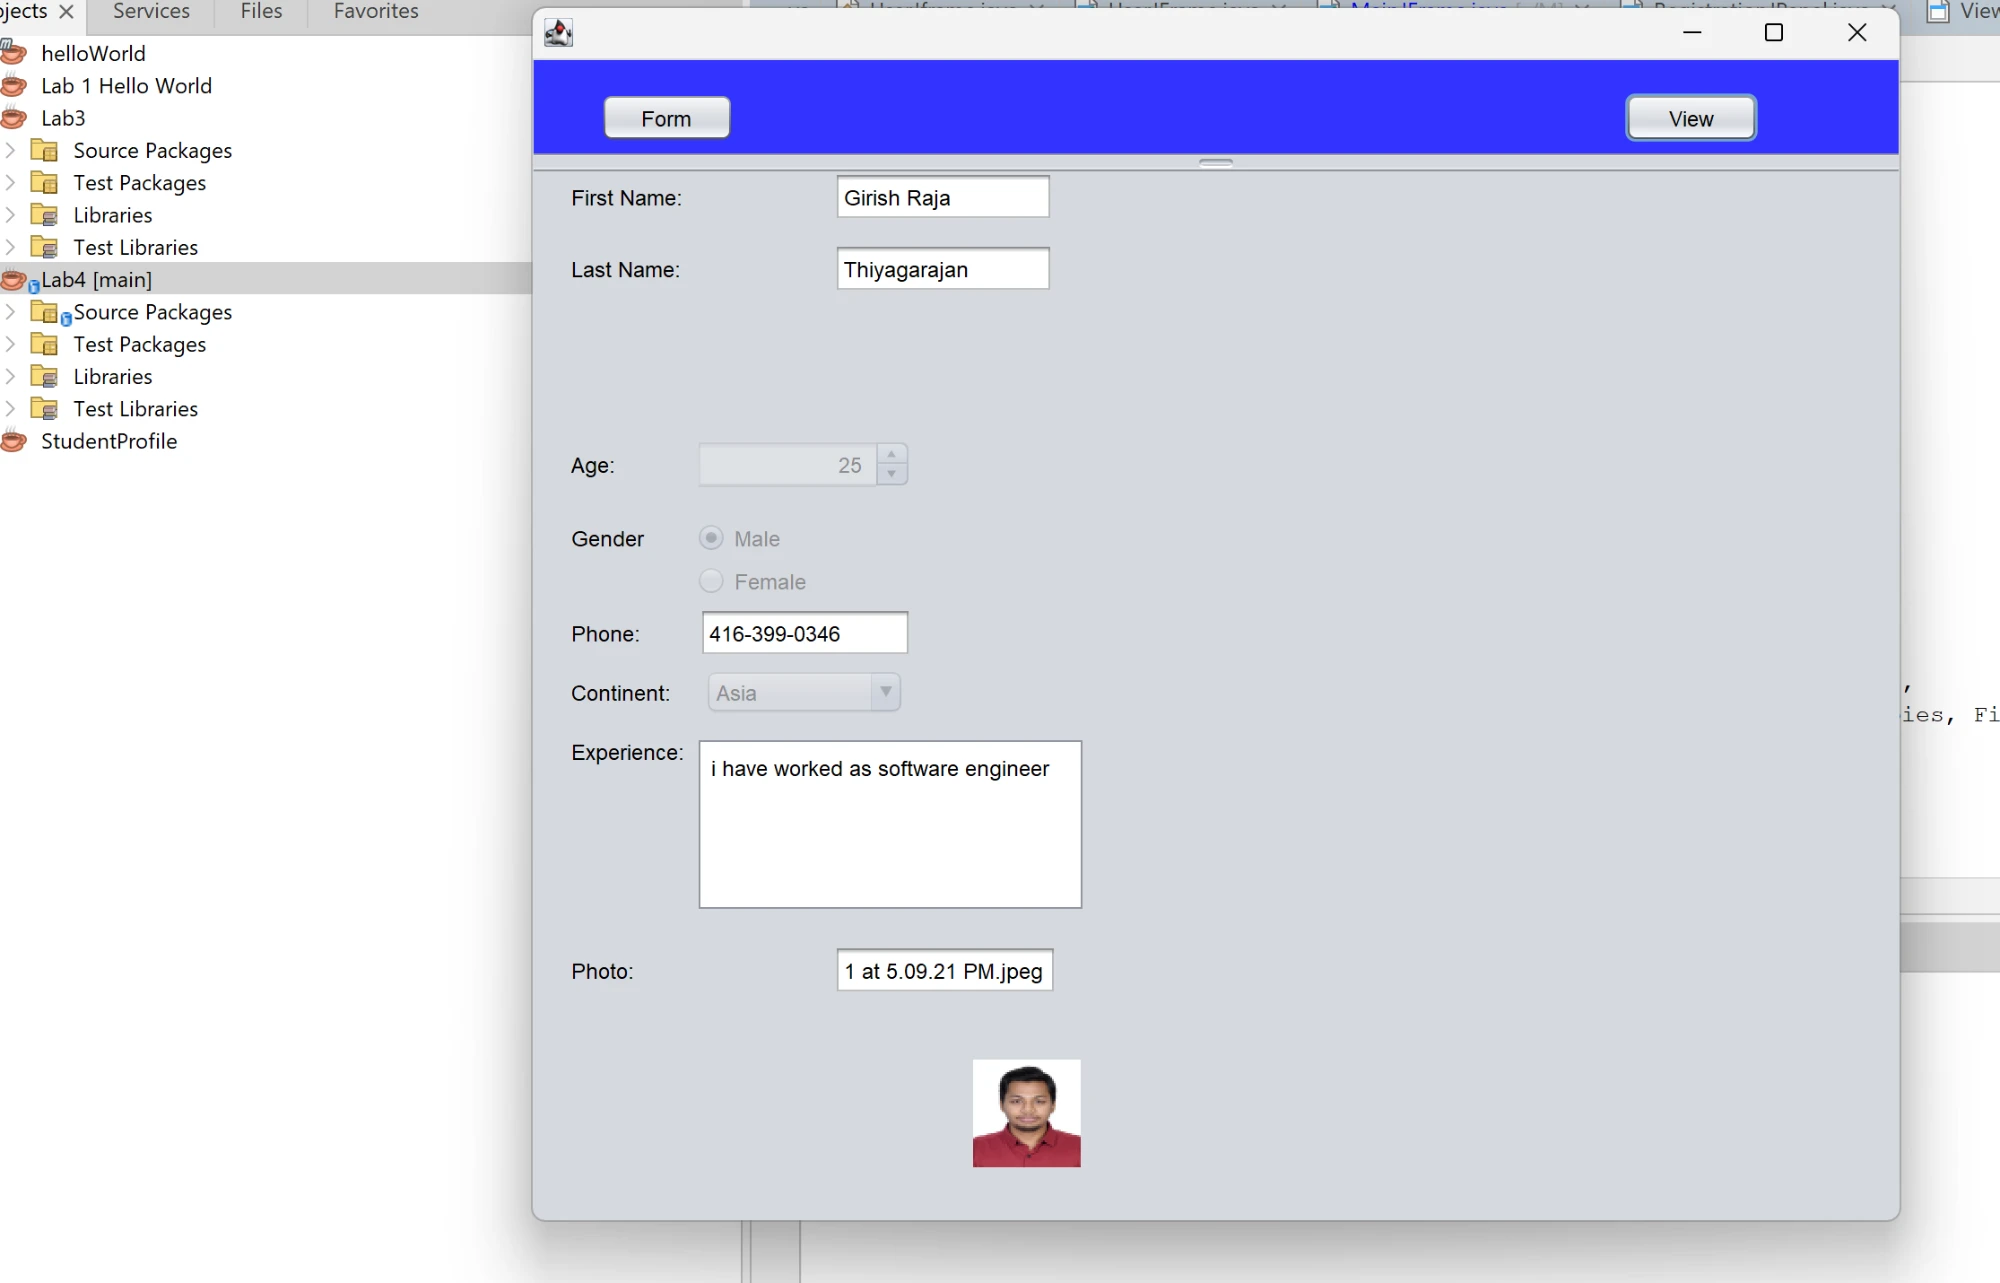
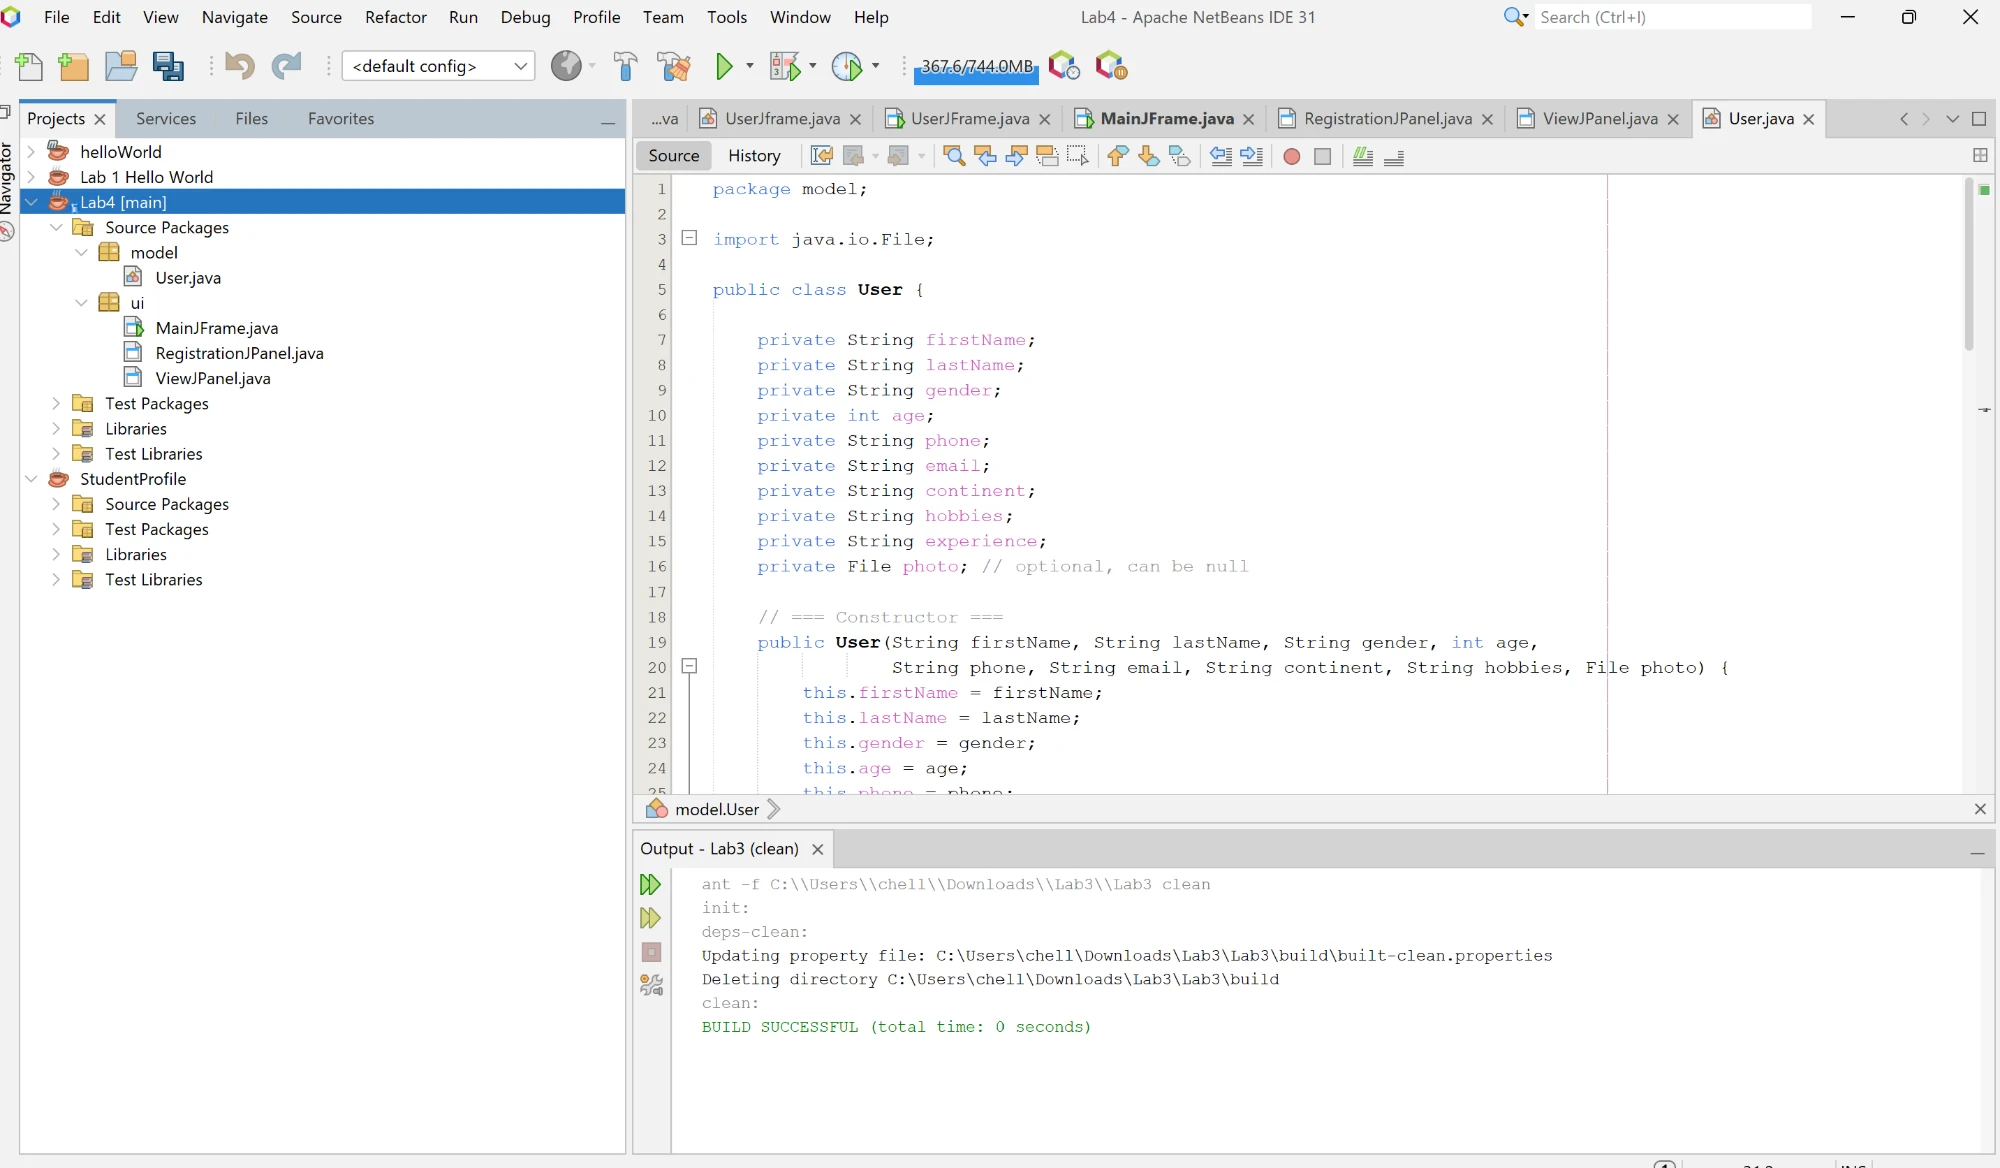
Reorder Lab 4 screenshots in README

diff --git a/README.md b/README.md
@@ -74,7 +74,7 @@ Each failed check shows an error message describing the problem, and the form st
 
 ### Screenshots
 
-**Step 1. Project structure.** The `model` package holds `User.java`, and the `ui` package holds the main frame and the two panels.
+**Step 1. View screen.** Clicking **View** shows the submitted details with all inputs locked, plus the photo.
 
 ![Step 1](Screenshots/lab4/Step_1.webp)
 
@@ -82,7 +82,7 @@ Each failed check shows an error message describing the problem, and the form st
 
 ![Step 2](Screenshots/lab4/Step_2.webp)
 
-**Step 3. View screen.** The submitted details with all inputs locked, plus the photo.
+**Step 3. Project structure.** The `model` package holds `User.java`, and the `ui` package holds the main frame and the two panels.
 
 ![Step 3](Screenshots/lab4/Step_3.webp)
 
